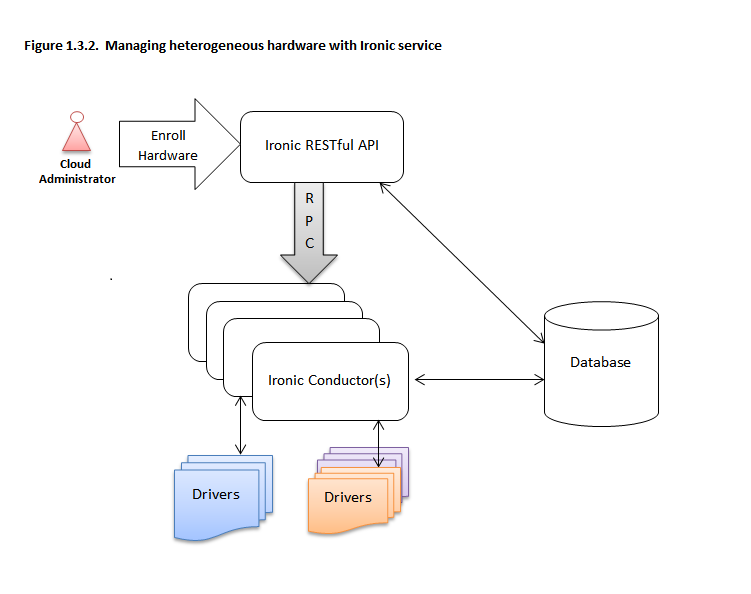
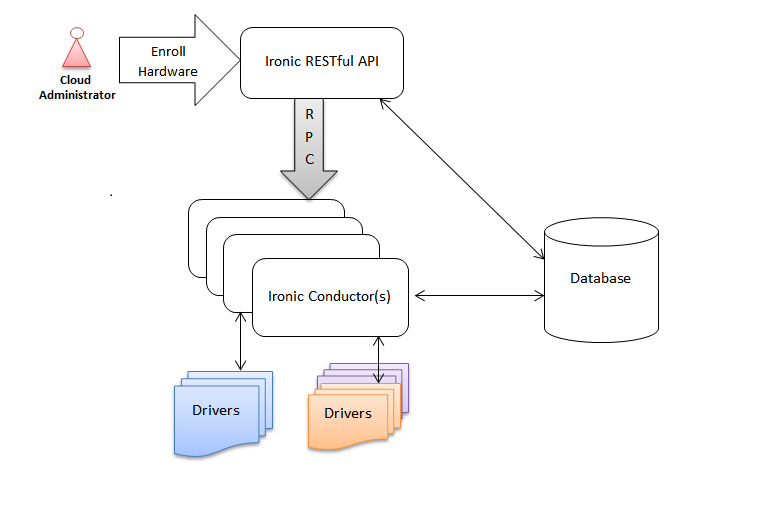
Update 'Introduction to Ironic' document
The first few sections of the 'Introduction to Ironic' document were updated to:
- mention that it is included with OpenStack releases starting with Kilo
- mention that Swift is missing from the Conceptual Architecture diagram
- removes Figure 1.3.1 "Deployment Architecture" and the text surrounding
  that for several reasons: it places ir-cond on the same host as n-cpu, which
  is not advisable in some situations; it suggests placing ir-api on a
  monolithic "Cloud Controller Node", but does not explain why this unusual
  choice was made; and it does not include any depiction of the physical
  servers which Ironic is going to manage, nor the IPMI network connectivity
  to them which is required.
- mentions that for security reasons, ir-cond should be placed on an isolated
  host, as it is the *only* service which requires access to both data plane
  and IPMI control plane.
- modified (what was Figure 1.3.2) deployment_architecture_2.png so that it
  doesn't include a figure number

Partial-Bug: #1353688

diff --git a/doc/source/deploy/user-guide.rst b/doc/source/deploy/user-guide.rst
@@ -21,6 +21,11 @@ OpenStack's Ironic project makes physical servers as easy to provision as
 virtual machines in cloud, which in turn will open up new avenues for
 enterprises and service providers.
 
+Ironic's driver replaces the Nova "bare metal" driver (in Grizzly - Juno
+releases). Ironic is available for use and is supported by the Ironic
+developers starting with the Juno release. It is officially integrated with
+OpenStack in the Kilo release.
+
 See https://wiki.openstack.org/wiki/Ironic for links to the project's current
 development status.
 
@@ -42,7 +47,9 @@ Conceptual Architecture
 =======================
 
 The following diagram shows the relationships and how all services come into
-play during the provisioning of a physical server.
+play during the provisioning of a physical server. (Note that Swift can be
+used with Ironic, but is missing from this diagram.)
+
 
 .. figure:: ../images/conceptual_architecture.png
    :alt: ConceptualArchitecture
@@ -50,8 +57,7 @@ play during the provisioning of a physical server.
 Logical Architecture
 ====================
 
-To successfully deploy the Ironic service in cloud, the administrator users
-need to understand the logical architecture.  The below diagram shows the basic
+The diagram below shows the logical architecture. It shows the basic
 components that form the Ironic service, the relation of Ironic service with
 other OpenStack services and the logical flow of a boot instance request
 resulting in the provisioning of a physical server.
@@ -61,27 +67,29 @@ resulting in the provisioning of a physical server.
 
 The Ironic service is composed of the following components:
 
-#. A RESTful API service, by which operators and other services may interact
+#. a RESTful API service, by which operators and other services may interact
    with the managed bare metal servers.
 
-#. A Conductor service, which does the bulk of the work. Functionality is
+#. a Conductor service, which does the bulk of the work. Functionality is
    exposed via the API service. The Conductor and API services communicate
    via RPC.
 
-#. A Message Queue
+#. various Drivers that support heterogenous hardware
 
-#. A Database for storing the state of the Conductor and Drivers.
+#. a Message Queue
+
+#. a Database for storing information about the resources. Among other things,
+   this includes the state of the conductors, nodes (physical servers), and
+   drivers.
 
 As in Figure 1.2. Logical Architecture, a user request to boot an instance is
 passed to the Nova Compute service via Nova API and Nova Scheduler. The Compute
-service hands over this request to the Ironic service, which comprises
-of the Ironic API, the Ironic Conductor, many Drivers to support heterogeneous
-hardware, Database etc. The request passes from the Ironic API, to the
-Conductor and the Drivers to successfully provision a physical server to
-the user.
+service hands over this request to the Ironic service, where the request passes
+from the Ironic API, to the Conductor, to a Driver to successfully provision a
+physical server for the user.
 
-Just as Nova Compute service talks to various OpenStack services like Glance,
-Neutron, Swift etc to provision a virtual machine instance, here the
+Just as the Nova Compute service talks to various OpenStack services like
+Glance, Neutron, Swift etc to provision a virtual machine instance, here the
 Ironic service talks to the same OpenStack services for image, network and
 other resource needs to provision a bare metal instance.
 
@@ -134,31 +142,25 @@ connection to the hardware rather than to an operating system.
 
 Ironic Deployment Architecture
 ==============================
-We already know that OpenStack services are highly configurable to meet various
-end-user requirements. The diagrams below are sample deployment scenarios of
-the Ironic service for bare metal provisioning.
 
-.. figure:: ../images/deployment_architecture_1.png
-   :alt: Deployment Architecture 1
+The Ironic RESTful API service is used to enroll hardware that Ironic will
+manage. A cloud administrator usually registers the hardware, specifying their
+attributes such as MAC addresses and IPMI credentials. There can be multiple
+instances of the API service.
 
-In the above deployment architecture figure 1.3.1.:
+The Ironic conductor service does the bulk of the work.
+For security reasons, it is advisable to place the conductor service on
+an isolated host, since it is the only service that requires access to both
+the data plane and IPMI control plane.
 
-#. The controller runs the identity service, management service, dashboard and
-   the management portion of compute. It also contains associated API services,
-   MySQL databases and messaging system.
+There can be multiple instances of the conductor service to support
+various class of drivers and also to manage fail over. Instances of the
+conductor service should be on separate nodes. Each conductor can itself run
+many drivers to operate heterogeneous hardware. This is depicted in the
+following figure.
 
-#. The Ironic RESTful API service is used to enroll hardware with attributes
-   like MAC addresses, IPMI credentials etc. A cloud administrator usually
-   enrolls this information for Ironic to manage the specific hardware.
-
-#. The compute node runs the Nova compute service, networking plug-in agent and
-   Ironic conductor service. The Ironic conductor service does the bulk of the
-   work. There can be multiple instances of the conductor service to support
-   various class of drivers and also to manage fail over. Ideally, instances of
-   conductor service should be on separate nodes. Each conductor can itself run
-   many drivers to operate heterogeneous hardware. This is depicted in figure
-   1.3.2. The API exposes a list of supported drivers and the names of conductor
-   hosts servicing them.
+The API exposes a list of supported drivers and the names of conductor hosts
+servicing them.
 
 .. figure:: ../images/deployment_architecture_2.png
    :alt: Deployment Architecture 2
